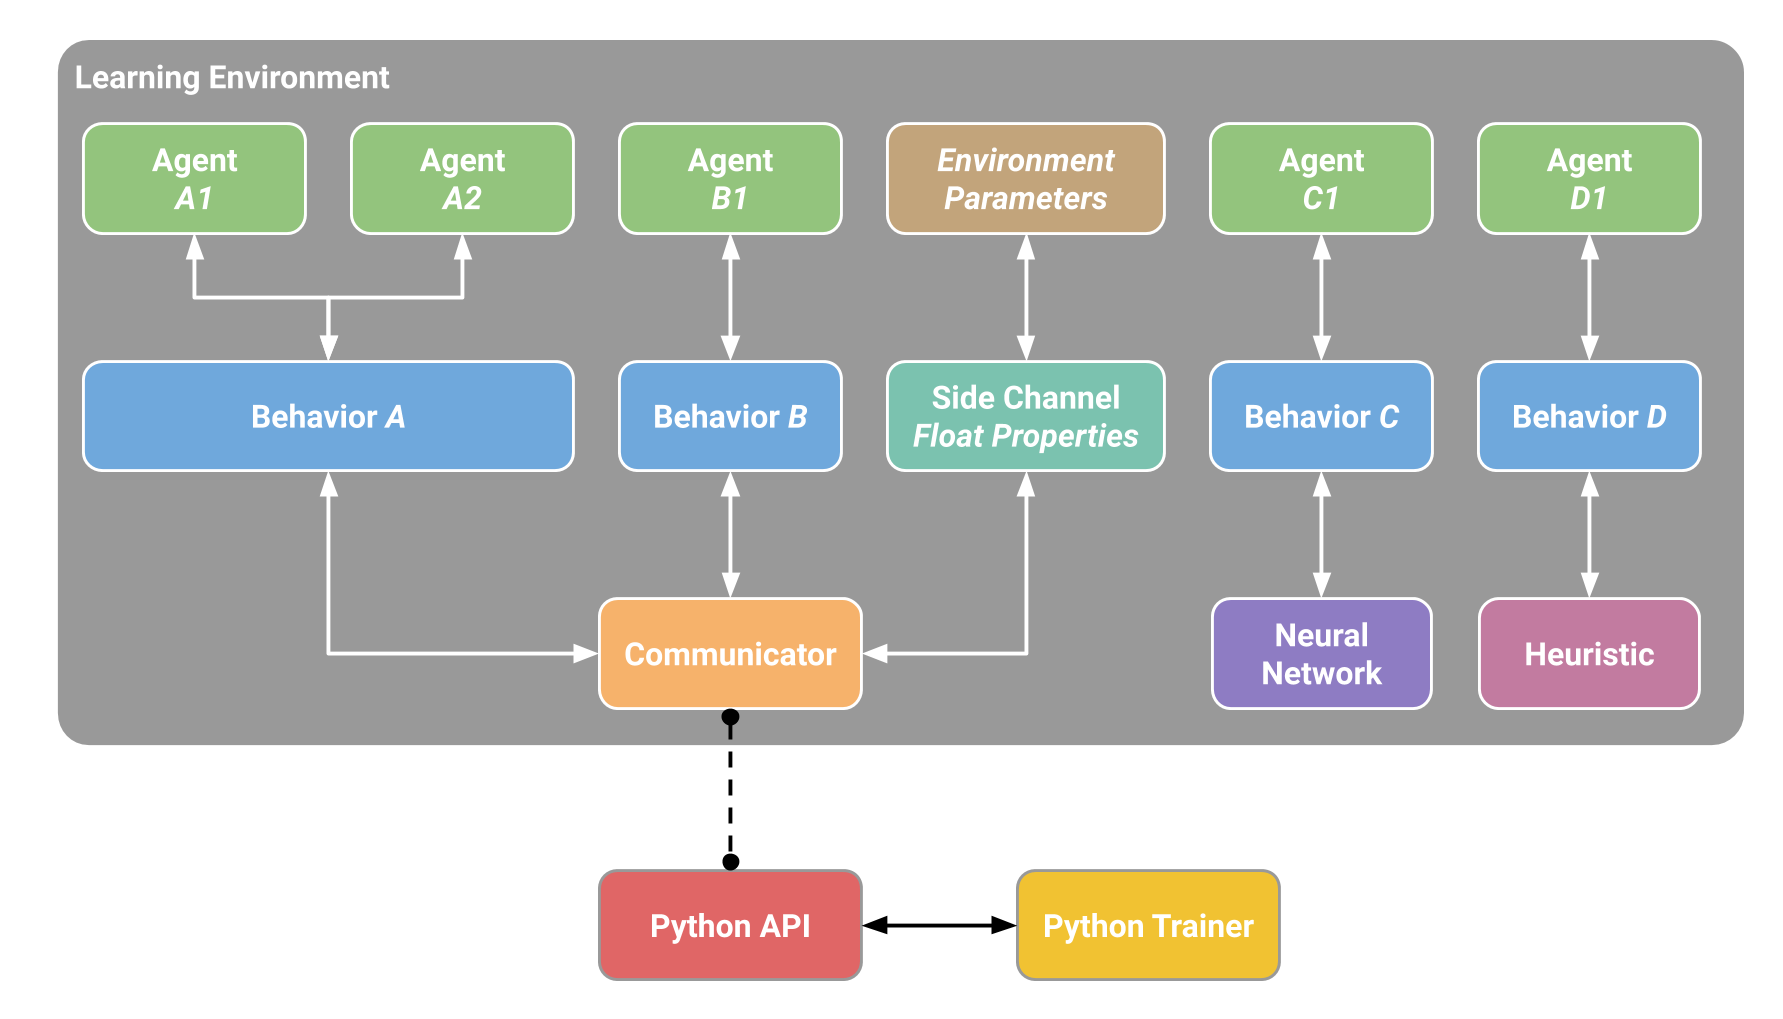
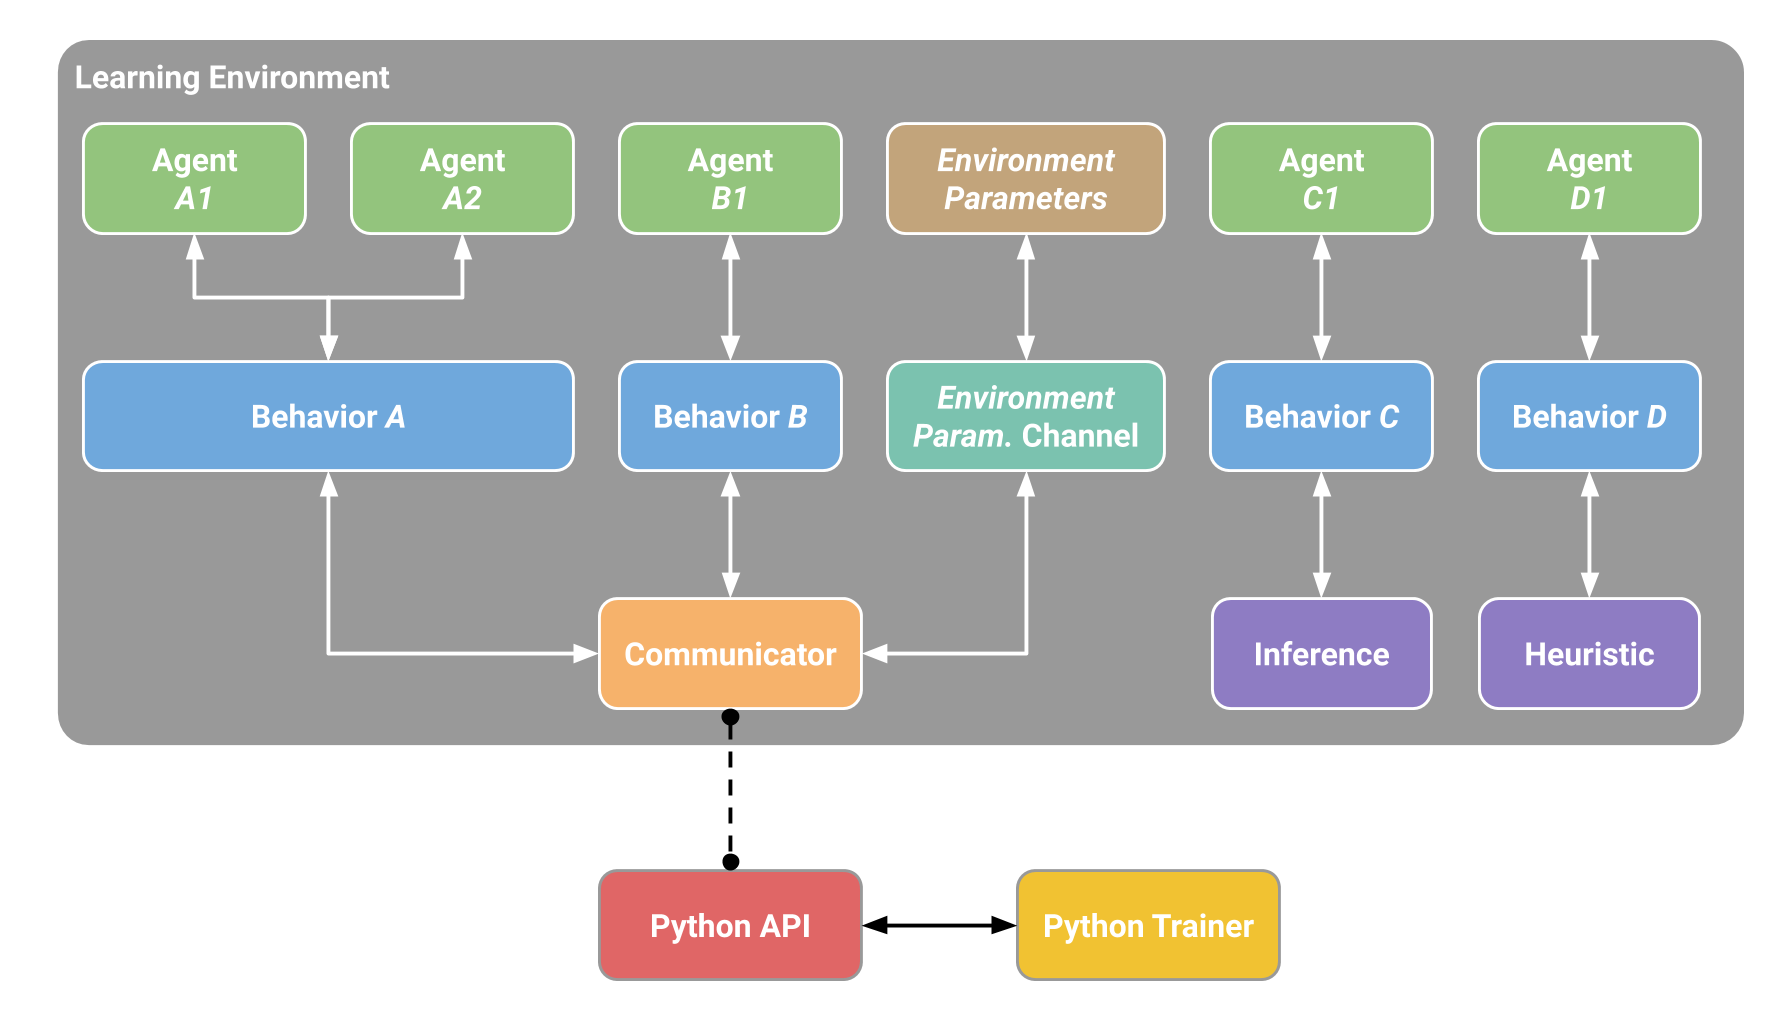
Improvements to Key Components section of ML-Agents Overview
- Moved some documentation from Learning-Environment-Design.
- Added the trainers vs LL-API separation.
- Made a note about gym-unity.
- Some update to the Agent/Behavior sections
- Updated diagrams to reflect new side channels. Made Behavior type a consistent color.

Changed region(s): [[0.8329, 0.578, 0.9563, 0.6997], [0.5244, 0.3651, 0.6478, 0.4563], [0.7095, 0.6084, 0.802, 0.6693]]

diff --git a/docs/ML-Agents-Overview.md b/docs/ML-Agents-Overview.md
@@ -1,7 +1,7 @@
 # ML-Agents Toolkit Overview
 
 **The Unity Machine Learning Agents Toolkit** (ML-Agents Toolkit) is an
-open-source Unity plugin that enables games and simulations to serve as
+open-source project that enables games and simulations to serve as
 environments for training intelligent agents. Agents can be trained using
 reinforcement learning, imitation learning, neuroevolution, or other machine
 learning methods through a simple-to-use Python API. We also provide
@@ -27,7 +27,9 @@ machine learning concepts or have not previously heard of TensorFlow.
 The remainder of this page contains a deep dive into ML-Agents, its key
 components, different training modes and scenarios. By the end of it, you should
 have a good sense of _what_ the ML-Agents Toolkit allows you to do. The
-subsequent documentation pages provide examples of _how_ to use ML-Agents.
+subsequent documentation pages provide examples of _how_ to use ML-Agents. To get
+started, watch this
+[demo video of ML-Agents in action](https://www.youtube.com/watch?v=fiQsmdwEGT8&feature=youtu.be).
 
 ## Running Example: Training NPC Behaviors
 
@@ -111,68 +113,98 @@ achieves this and what features it provides.
 
 ## Key Components
 
-The ML-Agents Toolkit is a Unity plugin that contains three high-level
-components:
+The ML-Agents Toolkit contains five high-level components:
 
 - **Learning Environment** - which contains the Unity scene and all the game
-  characters.
-- **Python API** - which contains all the machine learning algorithms that are
-  used for training (learning a behavior or policy). Note that, unlike the
+  characters. The Unity scene provides the environment in which agents observe,
+  act, and learn. How you set up the Unity scene to serve as a learning
+  environment really depends on your goal. You may be trying to solve a
+  specific reinforcement learning problem of limited scope, in which case you
+  can use the same scene for both training and for testing trained agents. Or,
+  you may be training agents to operate in a complex game or simulation. In
+  this case, it might be more efficient and practical to create a purpose-built
+  training scene. The ML-Agents Toolkit includes an ML-Agents Unity SDK
+  (`com.unity.ml-agents` package) that enables you to transform any Unity scene
+  into a learning environment by defining the agents and their behaviors.
+- **Python Low-Level API** - which contains a low-level Python interface for
+  interacting and manipulating a learning environment. Note that, unlike the
   Learning Environment, the Python API is not part of Unity, but lives outside
-  and communicates with Unity through the External Communicator.
+  and communicates with Unity through the Communicator. This API is contained
+  in a dedicated `mlagents_envs` Python package and is used by the Python
+  training process to communicate with and control the Academy during training.
+  However, it can be used for other purposes as well. For example, you could
+  use the API to use Unity as the simulation engine for your own machine
+  learning algorithms. See [Python API](Python-API.md) for more information.
 - **External Communicator** - which connects the Learning Environment with the
-  Python API. It lives within the Learning Environment.
+  Python Low-Level API. It lives within the Learning Environment.
+- **Python Trainers** which contains all the machine learning algorithms that
+  enable training agents. The algorithms are implemented in Python and are part
+  of their own `mlagents` Python package. The package exposes a single
+  command-line utility `mlagents-learn` that supports all the training methods
+  and options outlined in this document. The Python Trainers interface solely
+  with the Python Low-Level API.
+- **Gym Wrapper** (not pictured). A common way in which machine learning
+  researchers interact with simulation environments is via a wrapper provided
+  by OpenAI called [gym](https://github.com/openai/gym). We provide a gym
+  wrapper in a dedicated `gym-unity` Python package and
+  [instructions](../gym-unity/README.md) for using it with existing machine
+  learning algorithms which utilize gym.
 
 <p align="center">
   <img src="images/learning_environment_basic.png"
        alt="Simplified ML-Agents Scene Block Diagram"
-       width="700" border="10" />
+       width="600"
+       border="10" />
 </p>
 
 _Simplified block diagram of ML-Agents._
 
-The Learning Environment contains an additional component that help
-organize the Unity scene:
+The Learning Environment contains two Unity Components that help organize the
+Unity scene:
 
 - **Agents** - which is attached to a Unity GameObject (any character within a
   scene) and handles generating its observations, performing the actions it
   receives and assigning a reward (positive / negative) when appropriate. Each
   Agent is linked to a Behavior.
+- **Behavior** - defines specific attributes of the agent such as the number
+  of actions that agent can take. Each Behavior is uniquely identified by a
+  `Behavior Name` field. A Behavior can be thought as a function that receives
+  observations and rewards from the Agent and returns actions. A Behavior can
+  be of one of three types: Learning, Heuristic or Inference. A Learning
+  Behavior is one that is not, yet, defined but about to be trained. A
+  Heuristic Behavior is one that is defined by a hard-coded set of rules
+  implemented in code. An Inference Behavior is one that includes a trained
+  Neural Network file. In essence, after a Learning Behavior is trained, it
+  becomes an Inference Behavior.
 
 Every Learning Environment will always have one Agent for
 every character in the scene. While each Agent must be linked to a Behavior, it is
 possible for Agents that have similar observations and actions to have
 the same Behavior. In our sample game, we have two teams each with their own medic.
 Thus we will have two Agents in our Learning Environment, one for each medic,
-but both of these medics can have the same Behavior. Note that these two
-medics have the same Behavior. This does not mean that at each instance they will have
-identical observation and action _values_. If we expanded our game to include
-tank driver NPCs, then the Agent
-attached to those characters cannot share its Behavior with the Agent linked to the
-medics (medics and drivers have different actions).
+but both of these medics can have the same Behavior. This does not mean that at
+each instance they will have identical observation and action _values_.
 
 <p align="center">
   <img src="images/learning_environment_example.png"
        alt="Example ML-Agents Scene Block Diagram"
+       width="700"
        border="10" />
 </p>
 
 _Example block diagram of ML-Agents Toolkit for our sample game._
 
-We have yet to discuss how the ML-Agents Toolkit trains behaviors, and what role
-the Python API and External Communicator play. Before we dive into those
-details, let's summarize the earlier components. Each character is attached to
-an Agent, and each Agent has a Behavior. The Behavior can be thought as a function
-that receives observations
-and rewards from the Agent and returns actions. The Learning Environment through
+Note that in a single environment, there can be multiple Agents and multiple Behaviors
+at the same time. For example, if we expanded our game to include
+tank driver NPCs, then the Agent
+attached to those characters cannot share its Behavior with the Agent linked to the
+medics (medics and drivers have different actions). The Learning Environment through
 the Academy (not represented in the diagram) ensures that all the
 Agents are in sync in addition to controlling environment-wide
 settings.
 
-Note that in a single environment, there can be multiple Agents and multiple Behaviors
-at the same time. These Behaviors can communicate with Python through the communicator
-but can also use a pre-trained _Neural Network_ or a _Heuristic_. Note that it is also
-possible to communicate data with Python without using Agents through _Side Channels_.
+Lastly, it is possible to exchange data between Unity and Python outside of
+the machine learning loop through _Side Channels_.
 One example of using _Side Channels_ is to exchange data with Python about
 _Environment Parameters_. The following diagram illustrates the above.
 

diff --git a/docs/Learning-Environment-Design.md b/docs/Learning-Environment-Design.md
@@ -51,12 +51,6 @@ To create a training environment, extend the Agent class to
 implement the above methods whether you need to implement them or not depends on
 your specific scenario.
 
-**Note:** The API used by the Python training process to communicate with
-and control the Academy during training can be used for other purposes as well.
-For example, you could use the API to use Unity as the simulation engine for
-your own machine learning algorithms. See [Python API](Python-API.md) for more
-information.
-
 ## Organizing the Unity Scene
 
 To train and use the ML-Agents Toolkit in a Unity scene, the scene as many Agent subclasses as you need.
@@ -124,15 +118,6 @@ See [Agents](Learning-Environment-Design-Agents.md) for detailed information
 about programming your own Agents.
 
 ## Environments
-
-An _environment_ in the ML-Agents Toolkit can be any scene built in Unity. The
-Unity scene provides the environment in which agents observe, act, and learn.
-How you set up the Unity scene to serve as a learning environment really depends
-on your goal. You may be trying to solve a specific reinforcement learning
-problem of limited scope, in which case you can use the same scene for both
-training and for testing trained agents. Or, you may be training agents to
-operate in a complex game or simulation. In this case, it might be more
-efficient and practical to create a purpose-built training scene.
 
 When you create a training environment in Unity, you must set up the scene so
 that it can be controlled by the external training process. Considerations
